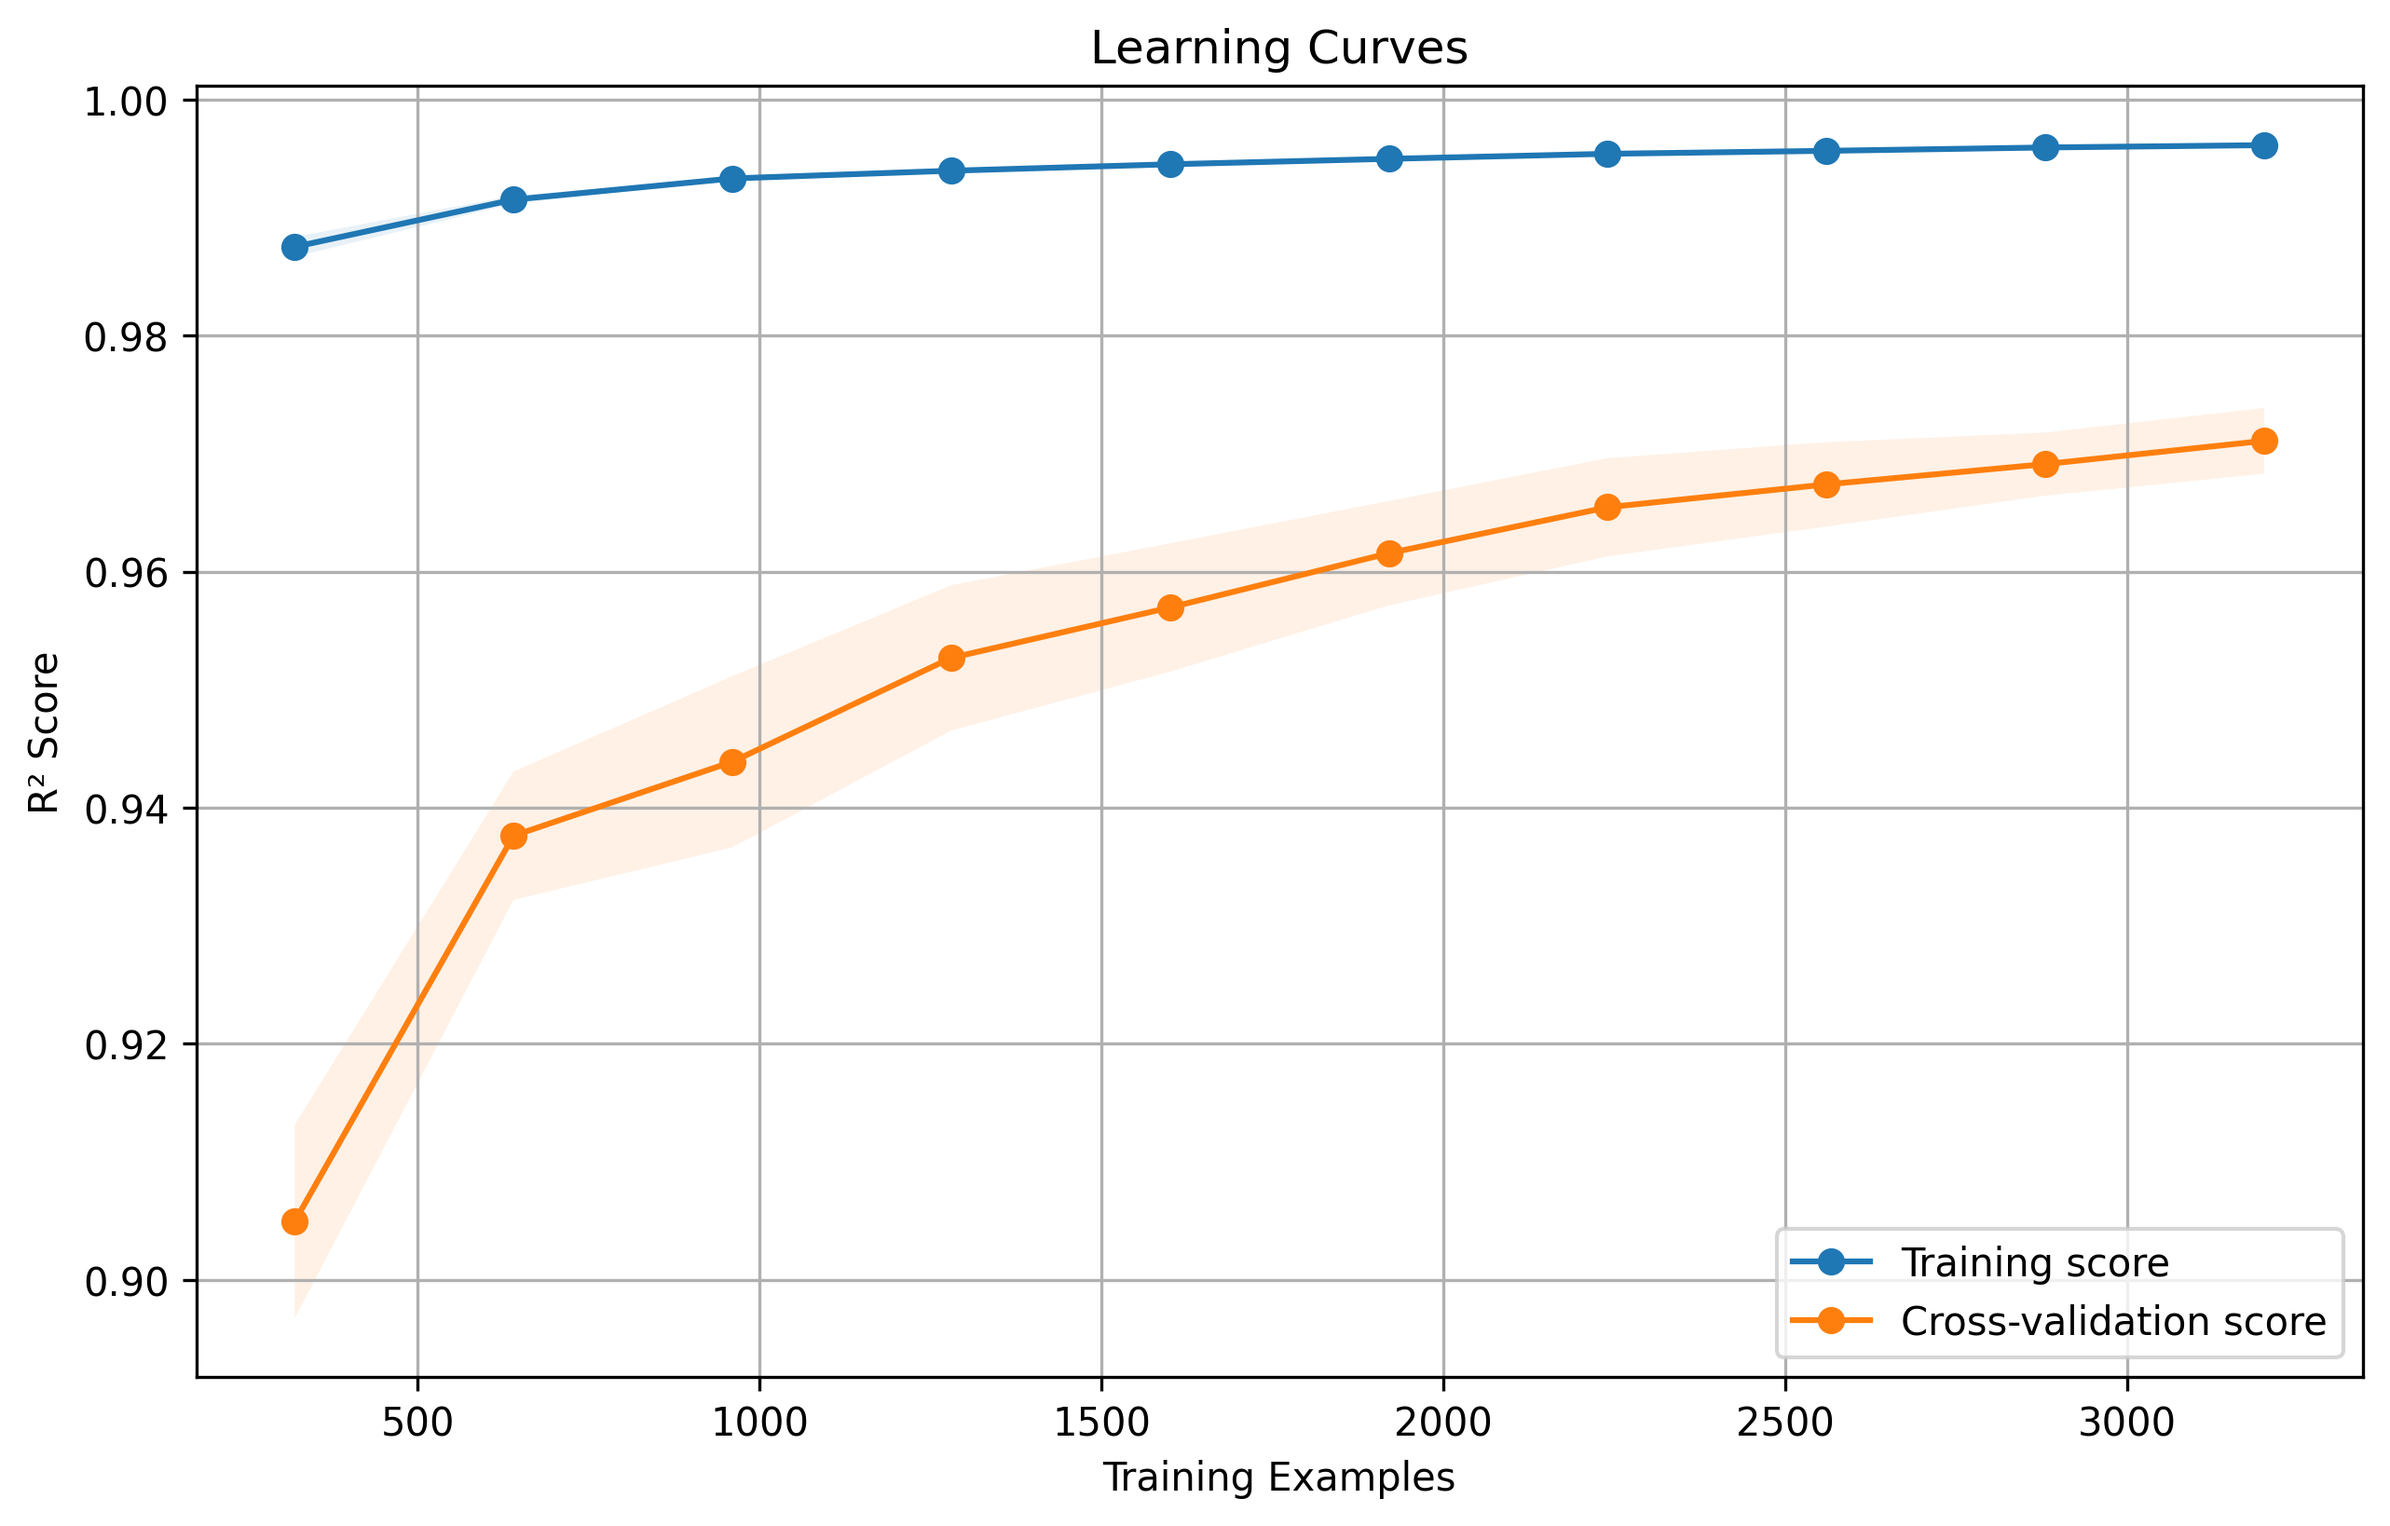
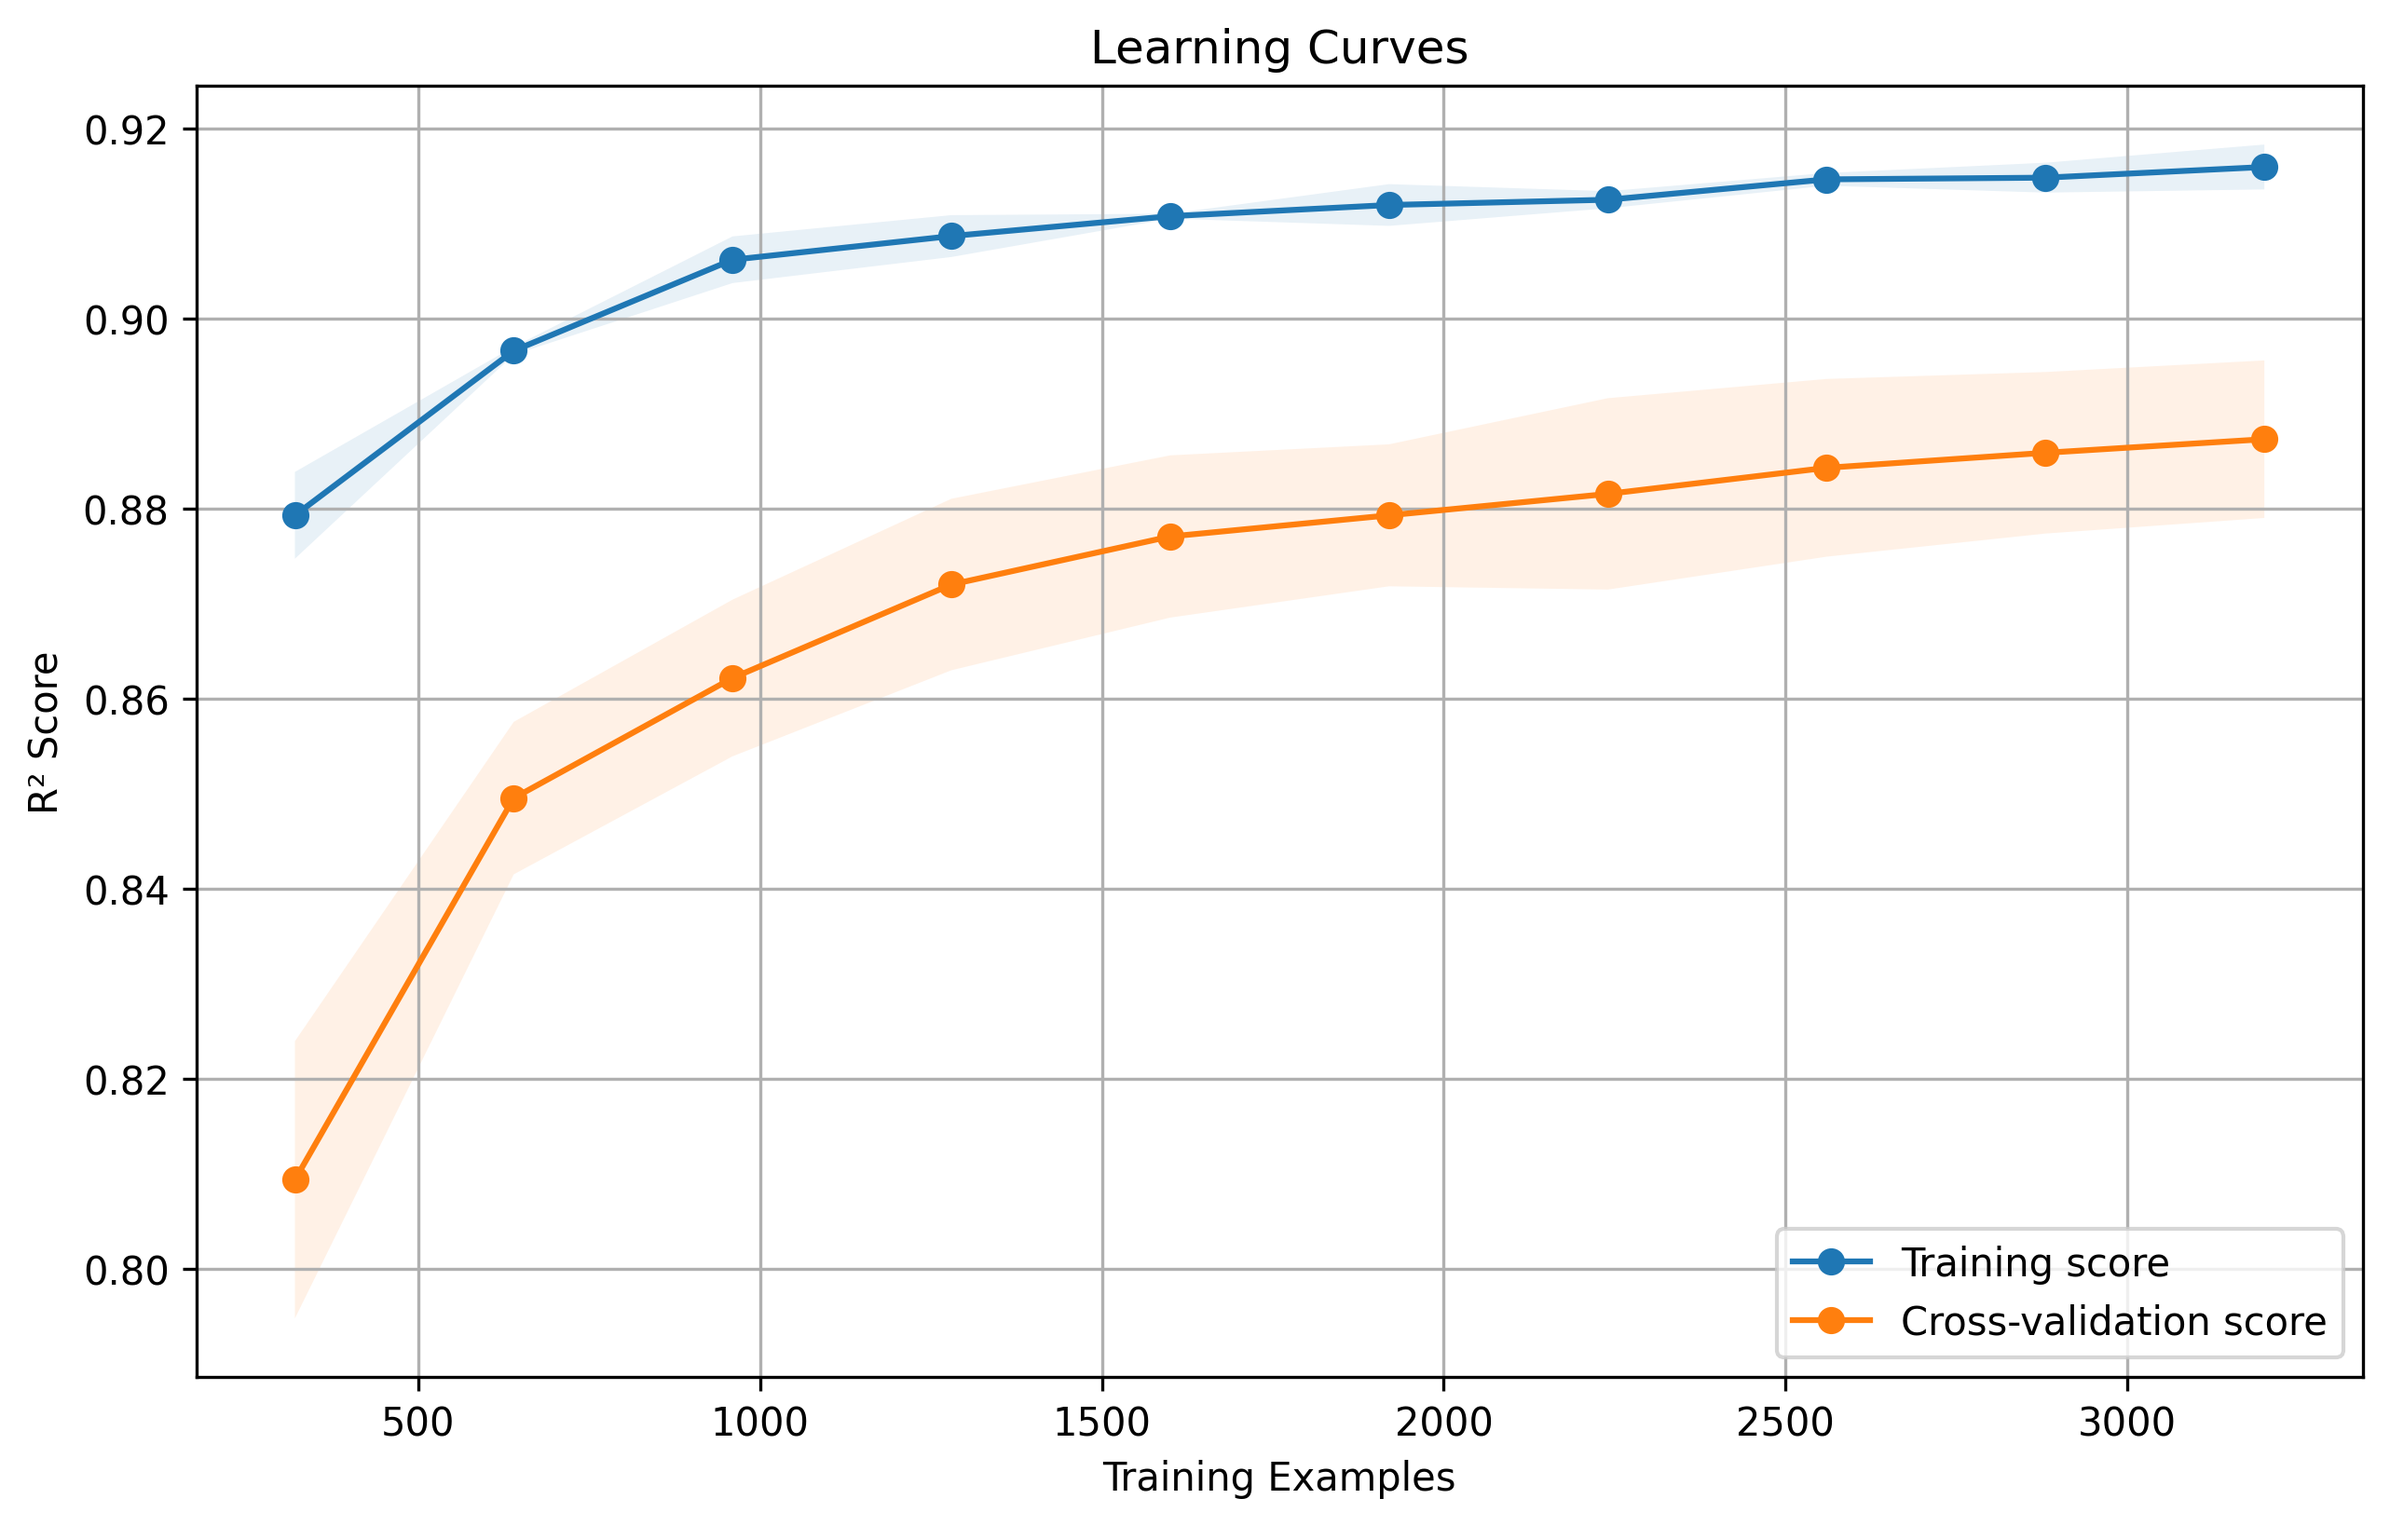
reduced the model size significantly

diff --git a/src/trainers/trainer.py b/src/trainers/trainer.py
@@ -7,6 +7,7 @@ import matplotlib.pyplot as plt
 import numpy as np
 import pandas as pd
 from sklearn.ensemble import RandomForestRegressor
+from sklearn.feature_selection import SelectFromModel
 from sklearn.metrics import mean_squared_error, r2_score
 from sklearn.model_selection import (
     GridSearchCV,
@@ -76,32 +77,50 @@ def trainer():
     if features is None:
         return
 
-    # Split train/test
+    # Split train/test first
     X_train, X_test, y_train, y_test = train_test_split(
         features, targets, test_size=0.2, random_state=42
     )
 
+    # Initialize feature selector with proper feature names
+    selector = RandomForestRegressor(n_estimators=50, max_depth=8, random_state=42)
+    feature_selector = SelectFromModel(selector)
+
+    # Fit and transform while maintaining feature names
+    X_train_selected = pd.DataFrame(
+        feature_selector.fit_transform(X_train, y_train),
+        columns=X_train.columns[feature_selector.get_support()],
+    )
+
+    X_test_selected = pd.DataFrame(
+        feature_selector.transform(X_test),
+        columns=X_train.columns[feature_selector.get_support()],
+    )
+
+    # Store selected feature names
+    selected_features = X_train_selected.columns.tolist()
+
     # Define model and parameters
     model = RandomForestRegressor(random_state=42)
     param_grid = {
-        "n_estimators": [100, 200, 300],
-        "max_depth": [5, 10, 15, 20, None],
-        "min_samples_split": [2, 5, 10],
-        "min_samples_leaf": [1, 2, 4],
-        "max_features": ["sqrt", "log2", None],
+        "n_estimators": [50, 100],
+        "max_depth": [5, 8, 10],
+        "min_samples_split": [5, 10],
+        "min_samples_leaf": [2, 4],
+        "max_features": ["sqrt"],
     }
 
     # Grid search
     grid_search = GridSearchCV(
         model, param_grid, cv=5, n_jobs=-1, scoring="r2", verbose=2
     )
-    grid_search.fit(X_train, y_train)
+    grid_search.fit(X_train_selected, y_train)
 
     # Get best model
     best_model = grid_search.best_estimator_
 
     # Now do cross-validation
-    cv_scores = cross_val_score(best_model, X_train, y_train, cv=5)
+    cv_scores = cross_val_score(best_model, X_train_selected, y_train, cv=5)
     print(f"\nCross-validation scores: {cv_scores}")
     print(f"Mean CV score: {cv_scores.mean():.4f} (+/- {cv_scores.std() * 2:.4f})")
 
@@ -109,31 +128,37 @@ def trainer():
     print("\nBest parameters:", grid_search.best_params_)
 
     # Plot learning curves
-    plot_learning_curves(best_model, X_train, y_train)
+    plot_learning_curves(best_model, X_train_selected, y_train)
 
-    # Feature importance analysis
+    # Fix feature importance analysis
     feature_importance = pd.DataFrame(
-        {"feature": features.columns, "importance": best_model.feature_importances_}
+        {"feature": selected_features, "importance": best_model.feature_importances_}
     ).sort_values("importance", ascending=False)
     print("\nTop 10 most important features:")
     print(feature_importance.head(10))
 
     os.makedirs(config["model_dir"], exist_ok=True)
 
-    # Save model and metadata
+    # Save metadata with proper feature names
     metadata = {
-        "feature_names": features.columns.tolist(),
+        "feature_names": selected_features,
         "career_names": list(CAREERS.keys()),
         "best_params": grid_search.best_params_,
-        "cv_scores": {"mean": cv_scores.mean(), "std": cv_scores.std()},
+        "cv_scores": {"mean": float(cv_scores.mean()), "std": float(cv_scores.std())},
     }
 
+    # Save model and metadata
     joblib.dump(best_model, f"{config['model_dir']}/career_predictor.joblib")
     joblib.dump(metadata, f"{config['model_dir']}/model_metadata.joblib")
-    feature_importance.to_csv(f"{config['model_dir']}/feature_importance.csv")
+    joblib.dump(feature_selector, f"{config['model_dir']}/feature_selector.joblib")
+
+    # Save feature importance
+    feature_importance.to_csv(
+        f"{config['model_dir']}/feature_importance.csv", index=False
+    )
 
     # Evaluate on test set
-    y_pred = best_model.predict(X_test)
+    y_pred = best_model.predict(X_test_selected)
 
     print("\nModel Performance:\n")
     for i, career in enumerate(CAREERS.keys()):

diff --git a/src/predictors/predictor.py b/src/predictors/predictor.py
@@ -3,7 +3,25 @@
 from typing import Dict, Optional
 
 import joblib
+import numpy as np
 import pandas as pd
+
+from ..config.config import config
+
+
+def get_base_features() -> pd.DataFrame:
+    """Create DataFrame with training features structure."""
+    try:
+        # Load feature order from training
+        feature_order = joblib.load(f"{config['model_dir']}/feature_order.joblib")
+        feature_names = feature_order["feature_names"]
+
+        # Create DataFrame with correct columns
+        features = pd.DataFrame(columns=feature_names)
+        features.loc[0] = -1.0  # Initialize with -1
+        return features
+    except Exception as e:
+        raise RuntimeError(f"Failed to initialize features: {e}")
 
 
 def predict(
@@ -14,57 +32,52 @@ def predict(
     gpa: Optional[float] = None,
 ) -> Dict[str, float]:
     """Predict career probabilities based on educational profile."""
-    # Load model, scaler and metadata
-    model = joblib.load("./models/career_predictor.joblib")
-    metadata = joblib.load("./models/model_metadata.joblib")
-    scaler = joblib.load("./models/scaler.joblib")
+    try:
+        # Load model artifacts
+        model = joblib.load(f"{config['model_dir']}/career_predictor.joblib")
+        metadata = joblib.load(f"{config['model_dir']}/model_metadata.joblib")
 
-    # Initialize features with zeros
-    feature_dict = {name: 0.0 for name in metadata["feature_names"]}
+        # Initialize features
+        features = get_base_features()
 
-    # Set education level
-    feature_dict["education_level"] = education_level
+        # Set basic features
+        features.loc[0, "education_level"] = education_level
+        features.loc[0, "AL_stream"] = al_stream if al_stream is not None else -1
+        features.loc[0, "gpa"] = gpa if gpa is not None else -1
 
-    # Map OL results
-    for subject_id, score in ol_results.items():
-        feature_name = f"OL_subject_{subject_id}_score"
-        if feature_name in feature_dict:
-            feature_dict[feature_name] = score
+        # Set OL subject scores
+        for subject_id, score in ol_results.items():
+            col_name = f"OL_subject_{subject_id}_score"
+            if col_name in features.columns:
+                features.loc[0, col_name] = float(score)
 
-    # Map AL results if applicable
-    if education_level >= 1 and al_stream is not None:
-        feature_dict["AL_stream"] = al_stream
+        # Set AL subject scores
         if al_results:
             for subject_id, score in al_results.items():
-                feature_name = f"AL_subject_{subject_id}_score"
-                if feature_name in feature_dict:
-                    feature_dict[feature_name] = score
+                col_name = f"AL_subject_{subject_id}_score"
+                if col_name in features.columns:
+                    features.loc[0, col_name] = float(score)
 
-    # Add GPA for university students
-    if education_level == 2 and gpa is not None:
-        feature_dict["gpa"] = gpa
+        # Select features used by model
+        selected_features = metadata["feature_names"]
+        features_selected = features[selected_features]
 
-    # Create features DataFrame
-    features = pd.DataFrame([feature_dict])
+        # Make prediction
+        predictions = model.predict(features_selected)[0]
 
-    # Normalize features
-    features_scaled = pd.DataFrame(scaler.transform(features), columns=features.columns)
+        # Return career probabilities
+        return {
+            career: float(np.clip(prob * 100, 0, 100))
+            for career, prob in zip(metadata["career_names"], predictions)
+        }
 
-    # Ensure correct feature order
-    features_scaled = features_scaled[metadata["feature_names"]]
-
-    # Make prediction
-    predictions = model.predict(features_scaled)[0]
-
-    # Map predictions to careers
-    return {
-        career: float(prob * 100)
-        for career, prob in zip(metadata["career_names"], predictions)
-    }
+    except Exception as e:
+        print(f"Prediction error: {e}")
+        return {}
 
 
 def predictor():
-    """Run example predictions."""
+    """Run sample predictions."""
     # Example OL student
     ol_results = {
         "0": 85,  # Math

diff --git a/src/preprocessors/preprocessor.py b/src/preprocessors/preprocessor.py
@@ -18,15 +18,27 @@ def preprocessor():
     career_probs = df[career_columns]
     features = df.drop(columns=career_columns + ["profile_id"])
 
+    # Store original feature names
+    feature_names = features.columns.tolist()
+
     # Scale numerical features
     scaler = StandardScaler()
     features_scaled = pd.DataFrame(
-        scaler.fit_transform(features), columns=features.columns
+        scaler.fit_transform(features),
+        columns=feature_names,  # Explicitly set column names
     )
 
-    # Save scaler for predictions
+    # Save scaler and feature names
     os.makedirs(config["model_dir"], exist_ok=True)
     joblib.dump(scaler, f"{config['model_dir']}/scaler.joblib")
+    joblib.dump(feature_names, f"{config['model_dir']}/feature_names.joblib")
+
+    # Save feature order with scaler
+    feature_order = {
+        "feature_names": features.columns.tolist(),
+        "feature_order": {name: idx for idx, name in enumerate(features.columns)},
+    }
+    joblib.dump(feature_order, f"{config['model_dir']}/feature_order.joblib")
 
     os.makedirs(config["processed_dir"], exist_ok=True)
     features_scaled.to_csv(f"{config['processed_dir']}/features.csv", index=False)
